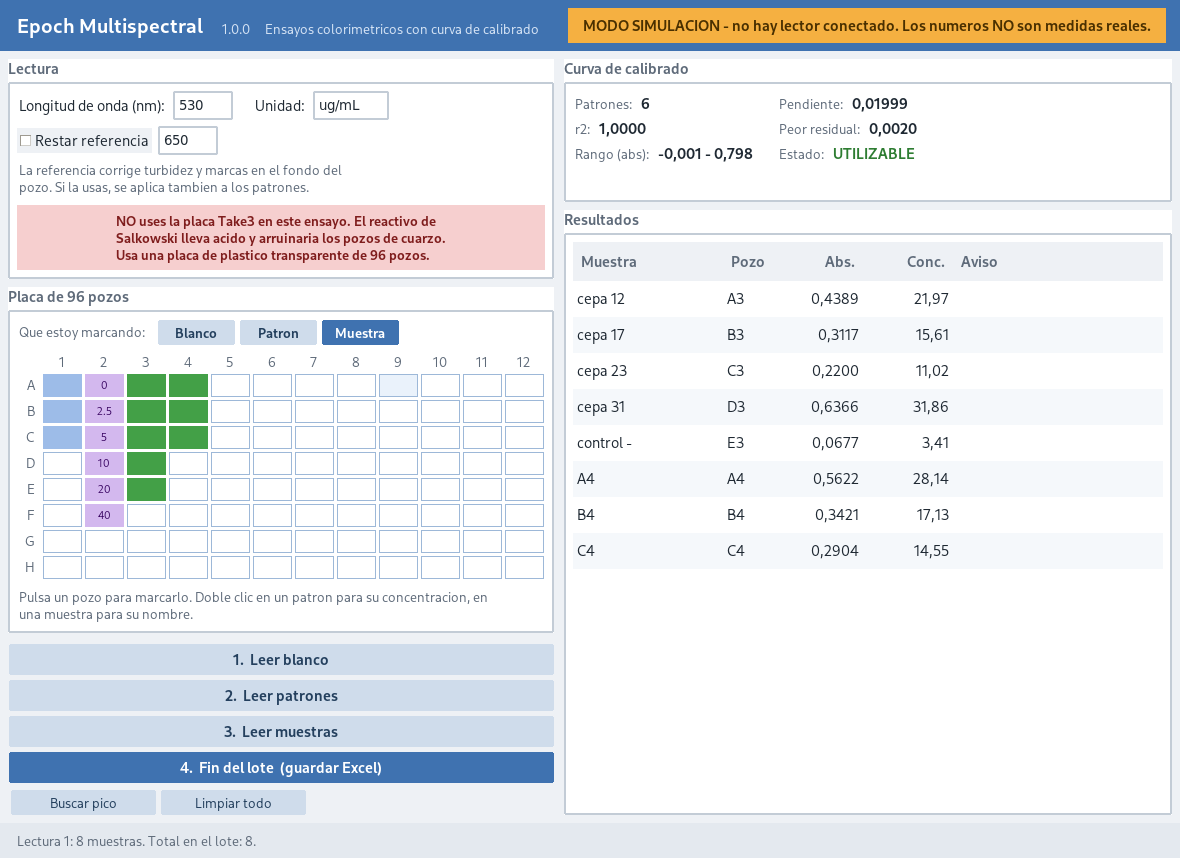
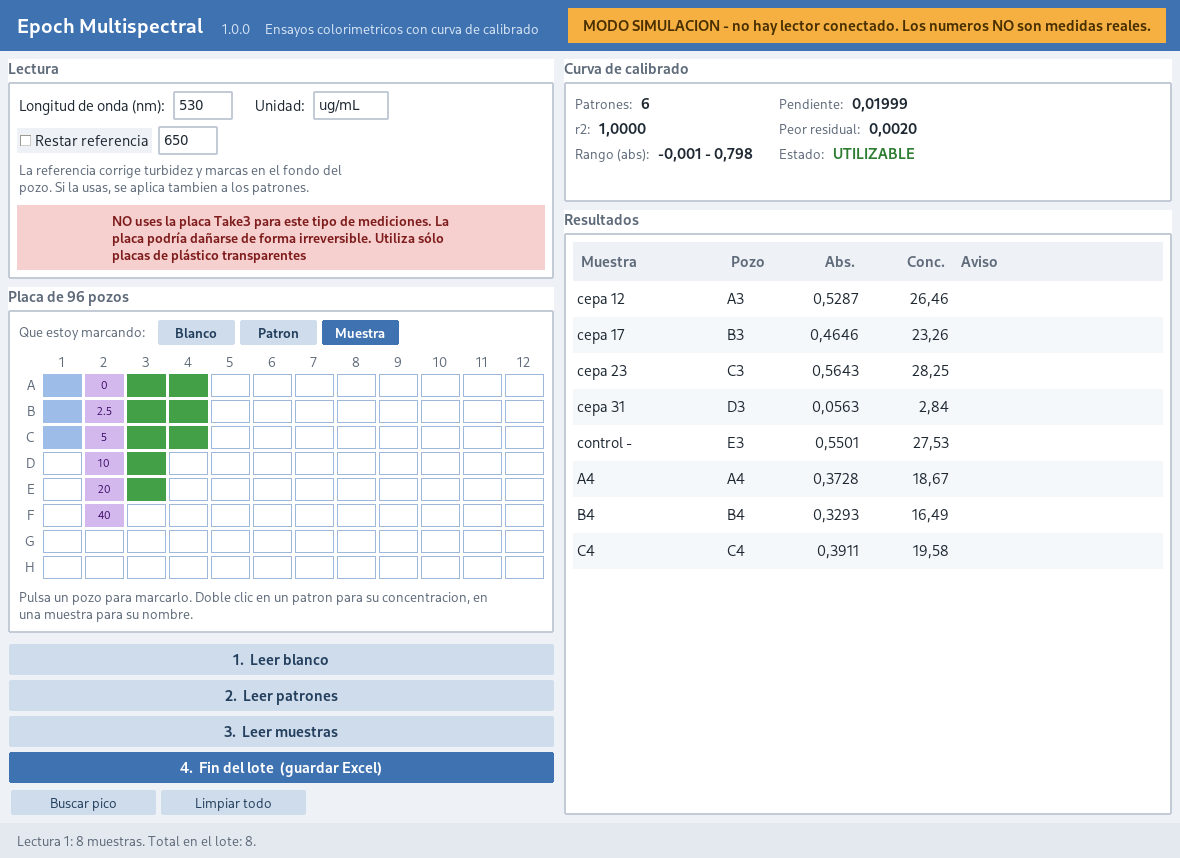
Say what happens to the plate, not why the chemistry does it
Gabo's wording, verbatim:

    NO uses la placa Take3 para este tipo de mediciones. La placa podría
    dañarse de forma irreversible. Utiliza sólo placas de plástico
    transparentes

The old text explained the mechanism -- ferric chloride, acid, quartz spots.
This one leads with the consequence, which is the part that makes someone put
the plate down before reading the rest of the sentence. The reasoning is still
in docs/MULTISPECTRAL.md, where there is room for it and nobody is holding a
pipette.

Accented, unlike most of the interface text. That was habit rather than a
constraint: the screen already carries non-ASCII elsewhere, and the accents
render correctly in the rebuilt screenshot.

The test now checks for the consequence and the alternative rather than for
the words "acido" and "plastico", which the new sentence does not contain.

Claude-Session: https://claude.ai/code/session_01VfY9pRaTZz9wP7J6EdKe74

diff --git a/epoch_open/gui_curve.py b/epoch_open/gui_curve.py
@@ -63,9 +63,13 @@ TEXT = {
                        "segundos: el programa lo detecta solo."),
     "lost": "EL LECTOR NO RESPONDE - comprueba que sigue encendido.",
 
-    "take3_warning": ("NO uses la placa Take3 en este ensayo. El reactivo de "
-                      "Salkowski lleva acido y arruinaria los pozos de cuarzo. "
-                      "Usa una placa de plastico transparente de 96 pozos."),
+    # Gabo's wording, verbatim. It says what happens rather than why the
+    # chemistry causes it, which is the part that makes someone put the plate
+    # down. Accented, unlike most of the text here: that was habit rather than
+    # a constraint, and the interface already carries non-ASCII elsewhere.
+    "take3_warning": ("NO uses la placa Take3 para este tipo de mediciones. "
+                      "La placa podría dañarse de forma irreversible. "
+                      "Utiliza sólo placas de plástico transparentes"),
 
     "plate": "Placa de 96 pozos",
     "roles": "Que estoy marcando:",

diff --git a/tests/test_gui_multispectral.py b/tests/test_gui_multispectral.py
@@ -343,8 +343,10 @@ class TestWhatTheScreenSays:
         try:
             warning = gui_curve.TEXT["take3_warning"]
             assert "Take3" in warning
-            assert "acido" in warning.lower()
-            assert "plastico" in warning.lower()
+            # The consequence, which is what stops someone, and the
+            # alternative, which is what they do instead.
+            assert "irreversible" in warning.lower()
+            assert "transparentes" in warning.lower()
         finally:
             app.destroy()
 
